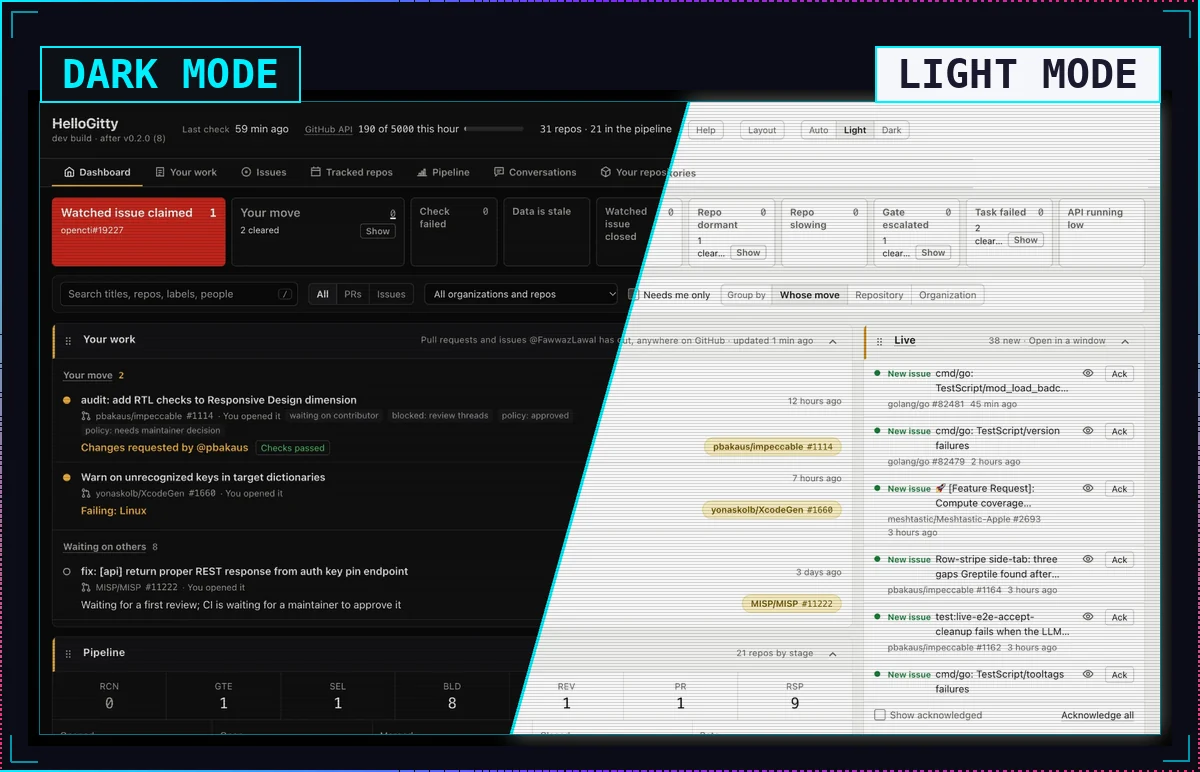
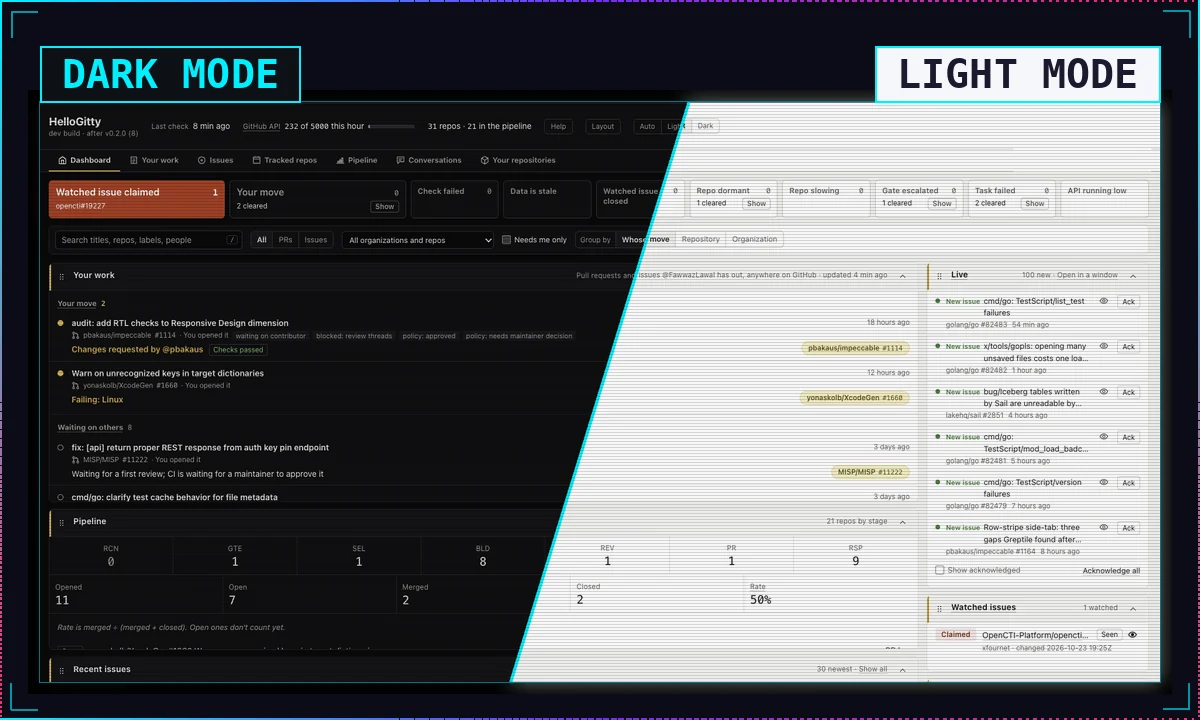
Rebuild the HelloGitty split from fresh captures

diff --git a/gen/work_shots.py b/gen/work_shots.py
@@ -235,15 +235,16 @@ def split_capture():
     dark = Image.open(os.path.join(SHOTS, SPLIT[0])).convert("RGB")
     light = Image.open(os.path.join(SHOTS, SPLIT[1])).convert("RGB")
     dx, dy = offset(dark, light)
-    shifted = Image.new("RGB", light.size)
-    shifted.paste(light, (-dx, -dy))
     w, h = dark.size
+    lw, lh = light.size
+    shifted = Image.new("RGB", dark.size)
+    shifted.paste(light, (-dx, -dy))
     m = Image.new("L", (w, h), 0)
     top, bottom = int(w * 0.58), int(w * 0.42)
     ImageDraw.Draw(m).polygon([(top, 0), (w, 0), (w, h), (bottom, h)], fill=255)
     im = Image.composite(shifted, dark, m)
     ImageDraw.Draw(im).line([(top, 0), (bottom, h)], fill=CYAN, width=5)
-    return im.crop((0, max(0, -dy), w - max(0, dx), h))
+    return im.crop((max(0, -dx), max(0, -dy), min(w, lw - dx), min(h, lh - dy)))   # where both captures have pixels
 
 
 def split_panel(t=DARK):

diff --git a/README.md b/README.md
@@ -76,8 +76,8 @@ built it to run the work in the ops log, and it's the one project on this page y
 and check for yourself. It polls GitHub hourly into SQLite and serves a self-contained page on `localhost`: no build
 step, no CDN, and it works offline.
 
-<img src="./assets/work/hellogitty-split.webp" width="100%" alt="HelloGitty on localhost, split on a diagonal: dark mode on the left, light mode on the right, each half labelled on a tab above it. It tracks 31 repositories with 21 in the pipeline. Your move: an RTL-audit pull request to pbakaus/impeccable with changes requested, and an XcodeGen pull request failing on Linux. Waiting on others: eight, led by a MISP API fix awaiting first review. A live sidebar lists new issues from golang/go and other watched repositories.">
-<p align="center"><sub><i>My own instance, a dev build after v0.2.0 (8), in both of its themes. The two pull requests under "Your move" are rows in the ops log above.</i></sub></p>
+<img src="./assets/work/hellogitty-split.webp" width="100%" alt="HelloGitty on localhost, split on a diagonal: dark mode on the left, light mode on the right, each half labelled on a tab above it. It tracks 31 repositories with 21 in the pipeline. Your move: an RTL-audit pull request to pbakaus/impeccable with changes requested, and an XcodeGen pull request failing on Linux. Waiting on others: eight, led by the MISP API fix and the Go help-text change. The pipeline panel counts 11 opened, 7 open, 2 merged and 2 closed, a 50 percent merge rate. A live sidebar lists new issues from golang/go, lakehq/sail and impeccable.">
+<p align="center"><sub><i>My own instance, a dev build after v0.2.0 (8), in both of its themes. Its pipeline counts match the ops log above: 7 open, 2 merged, 2 closed.</i></sub></p>
 
 ```sh
 go install github.com/FawwazLawal/hellogitty/cmd/hellogitty@latest
